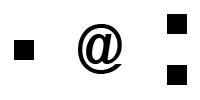
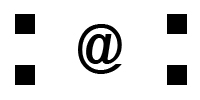
adds the fourth box in AtTheRate shape

Changed region(s): [[0.06, 0.63, 0.18, 0.87], [0.06, 0.12, 0.18, 0.36], [0.06, 0.39, 0.18, 0.6]]

diff --git a/Team_08/src/AtTheRate.java b/Team_08/src/AtTheRate.java
@@ -13,9 +13,9 @@ public class AtTheRate extends Shapes implements Serializable {
 
     private static final long serialVersionUID = 1L;
     private int x, y;
-    private Shapes dot1 = null, dot2 = null, dot3= null;
+    private Shapes dot1 = null, dot2 = null, dot3= null, dot4= null;
     private Shape attherate = null;
-    private boolean isLineDrawnDot1 = false, isLineDrawnDot2 = false, isLineDrawnDot3 = false;
+    private boolean isLineDrawnDot1 = false, isLineDrawnDot2 = false, isLineDrawnDot3 = false, isLineDrawnDot4 = false;
     public AtTheRate(int x, int y) {
         int OFFSET = 50;
         this.x = x - OFFSET;
@@ -28,12 +28,14 @@ public class AtTheRate extends Shapes implements Serializable {
         attherate = new Rectangle2D.Double(x, y, 200, 100);
         Graphics2D g2 = (Graphics2D) graphic;
         dot1 = new Dot(x, y);
-        dot1 = new Dot(x + 30, y + 50);
+        dot1 = new Dot(x + 30, y + 20);
         dot1.drawShape(g2);
         dot2 = new Dot(x + 165, y + 20);
         dot2.drawShape(g2);
         dot3 = new Dot(x + 165, y + 80);
         dot3.drawShape(g2);
+        dot4 = new Dot(x + 30, y + 80);
+        dot4.drawShape(g2);
 
         Font font = new Font("Serif", Font.PLAIN, 40);
         g2.setFont(font);
@@ -89,6 +91,14 @@ public class AtTheRate extends Shapes implements Serializable {
 
         this.isLineDrawnDot3 = isLineDrawnDot3;
     }
+    public boolean isLineDrawnDot4() {
+
+        return isLineDrawnDot4;
+    }
+    public void setLineDrawnDot4(boolean isLineDrawnDot3) {
+
+        this.isLineDrawnDot4 = isLineDrawnDot4;
+    }
     @Override
     public boolean containsPoint(int x, int y) {
 
@@ -107,6 +117,11 @@ public class AtTheRate extends Shapes implements Serializable {
     public Shapes getDot3() {
 
         return dot3;
+    }
+
+    public Shapes getDot4() {
+
+        return dot4;
     }
 
 }

diff --git a/Team_08/src/Dot.java b/Team_08/src/Dot.java
@@ -231,6 +231,9 @@ public class Dot extends Shapes implements MouseListener, MouseMotionListener, S
             } else if (atTheRate.getDot3().containsPoint(x, y)) {
                 atTheRate.setLineDrawnDot3(true);
             }
+            else if (atTheRate.getDot4().containsPoint(x, y)) {
+                atTheRate.setLineDrawnDot4(true);
+            }
         } else if (shape instanceof Hyphen) {
             Hyphen hyphen = (Hyphen) shape;
             if (hyphen.getDot1().containsPoint(x, y)) {
@@ -275,6 +278,9 @@ public class Dot extends Shapes implements MouseListener, MouseMotionListener, S
             } else if (atTheRate.getDot3().containsPoint(x, y)) {
                 return atTheRate.isLineDrawnDot3();
             }
+            else if (atTheRate.getDot4().containsPoint(x, y)) {
+                return atTheRate.isLineDrawnDot4();
+            }
         } else if (shape instanceof Hyphen) {
             Hyphen hyphen = (Hyphen) shape;
             if (hyphen.getDot1().containsPoint(x, y)) {
@@ -308,7 +314,8 @@ public class Dot extends Shapes implements MouseListener, MouseMotionListener, S
                     break;
                 } else if (sh instanceof AtTheRate && (((AtTheRate) sh).getDot1().containsPoint(e.getX(), e.getY())
                         || ((AtTheRate) sh).getDot2().containsPoint(e.getX(), e.getY())
-                        || ((AtTheRate) sh).getDot3().containsPoint(e.getX(), e.getY()))) {
+                        || ((AtTheRate) sh).getDot3().containsPoint(e.getX(), e.getY())
+                        || ((AtTheRate) sh).getDot4().containsPoint(e.getX(), e.getY()))) {
                     isDotClicked = true;
                     break;
                 } else if (sh instanceof Hyphen && (((Hyphen) sh).getDot1().containsPoint(e.getX(), e.getY())
